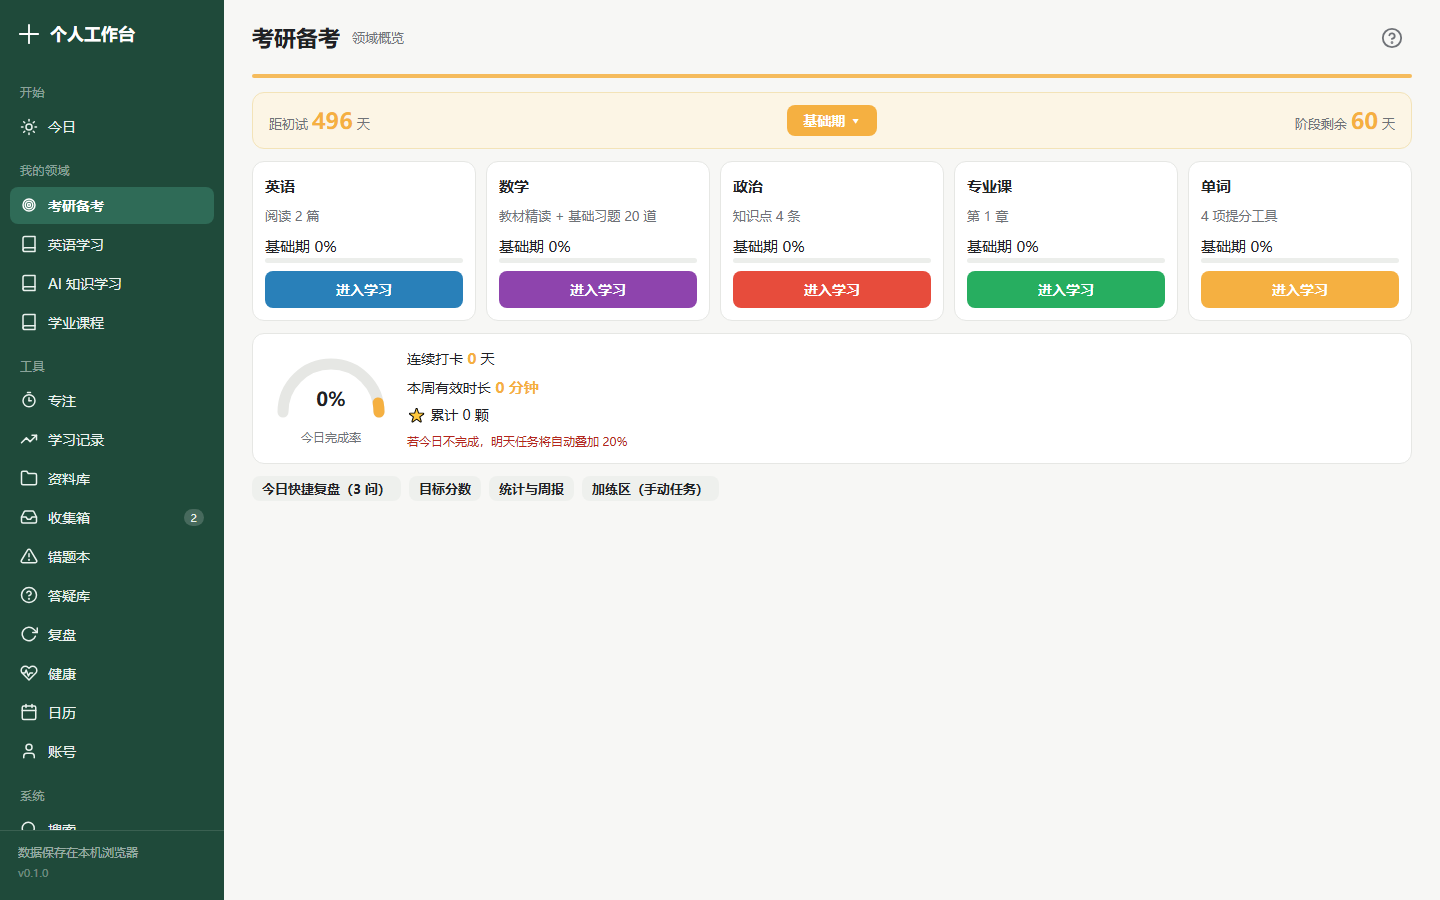
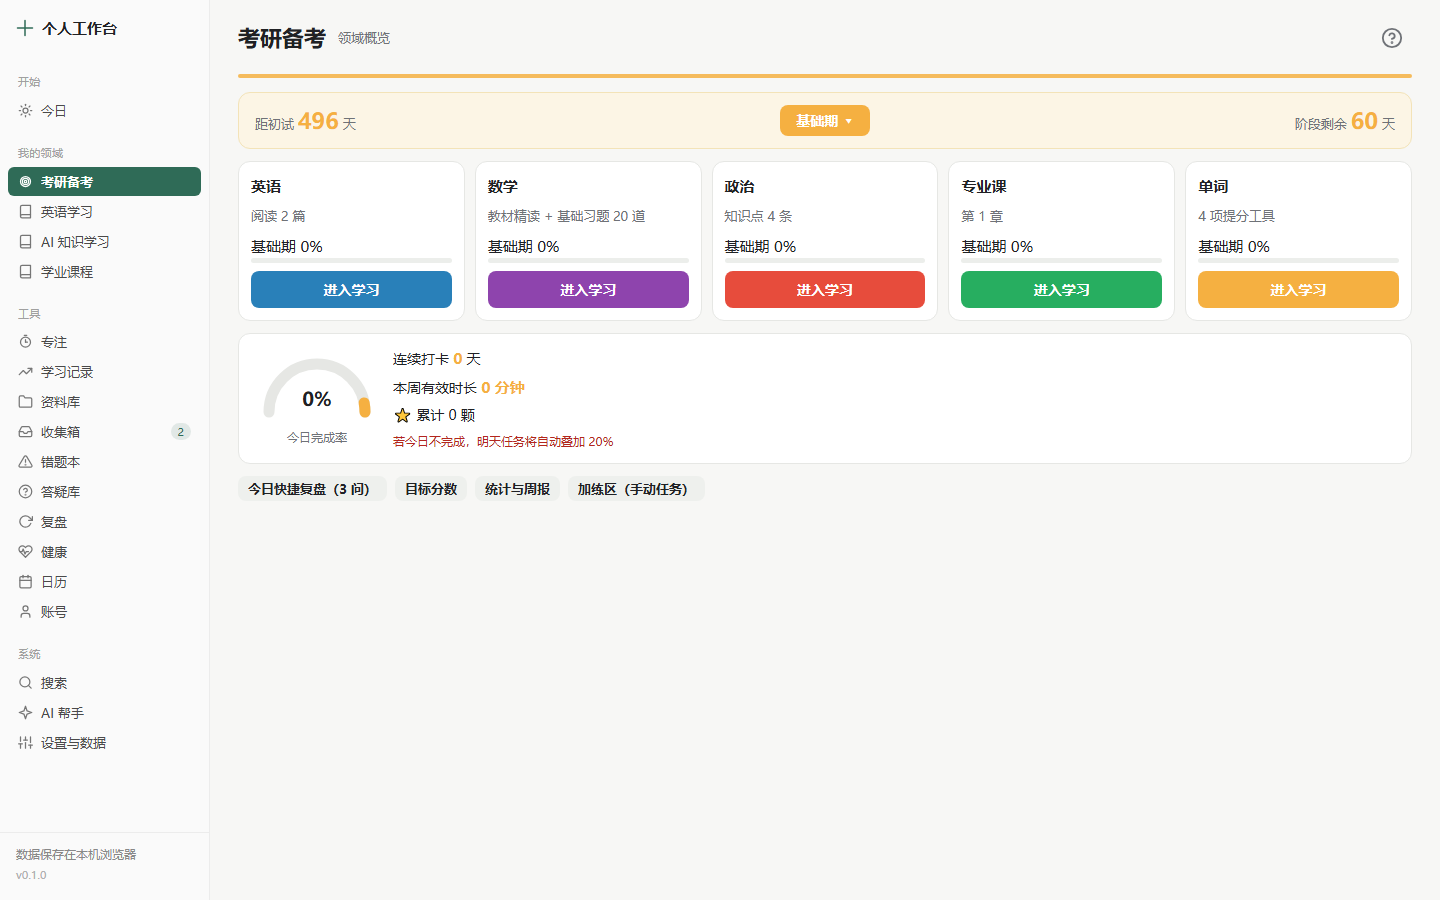
侧边栏变体C（紧凑浅色）+健康页删专注引导卡+学习记录本周打卡概览+复盘连续天数

diff --git a/views.js b/views.js
@@ -1614,11 +1614,6 @@
       "</div>" +
       '<div class="li-sub" style="margin-top:10px;">记录睡眠和状态后，每周复盘会自动统计健康情况。</div>');
 
-    /* 番茄钟入口（已独立为"专注"页面） */
-    html += card(cardHead("专注计时", "已独立为单独页面", "timer"),
-      '<p style="font-size:14px;color:var(--sub);margin-bottom:12px;">番茄钟已搬到独立的「专注」页面，那里有更大的计时器和专注统计。</p>' +
-      '<button class="btn block" data-action="open-focus">' + ic("timer") + "打开专注页</button>");
-
     html += "</div>";
 
     /* 本周统计 */
@@ -1743,6 +1738,28 @@
       '<div class="card tint-pink"><div class="stat-num">' + addCount + '</div><div class="stat-label">新增记录</div></div>' +
       "</div>";
 
+    /* 本周打卡概览（7 天点条） */
+    (function () {
+      var days = [];
+      for (var i = 6; i >= 0; i--) {
+        var dt = new Date(); dt.setDate(dt.getDate() - i);
+        var ds = dt.getFullYear() + "-" + String(dt.getMonth() + 1).padStart(2, "0") + "-" + String(dt.getDate()).padStart(2, "0");
+        var m = (d.studyLog || []).filter(function (x) { return x.date === ds; }).reduce(function (s, x) { return s + (x.minutes || 0); }, 0);
+        days.push({ ds: ds, m: m, label: "周" + "日一二三四五六"[dt.getDay()] });
+      }
+      var maxM = Math.max.apply(null, days.map(function (x) { return x.m; }).concat([1]));
+      html += card(cardHead("本周打卡", "近 7 天每天学习时长", "activity-week"),
+        '<div style="display:flex;gap:8px;align-items:flex-end;height:64px;padding:0 4px;">' +
+        days.map(function (x) {
+          var h = Math.round(x.m / maxM * 52);
+          return '<div style="flex:1;display:flex;flex-direction:column;align-items:center;gap:4px;">' +
+            '<div style="width:100%;max-width:26px;height:' + (h > 0 ? h : 3) + 'px;background:' + (x.m > 0 ? "var(--accent)" : "#EDEFEC") + ';border-radius:3px;"></div>' +
+            '<div class="li-sub" style="font-size:11px;">' + x.label + "</div></div>";
+        }).join("") +
+        "</div>" +
+        '<div class="li-sub" style="margin-top:8px;">' + days.filter(function (x) { return x.m > 0; }).length + " 天有学习记录" + (calcStreak() >= 2 ? " · 连续打卡 " + calcStreak() + " 天" : "") + "</div>");
+    })();
+
     /* 鼓励语 */
     var streak = calcStreak();
     var praise = "";
@@ -1820,6 +1837,26 @@
       '<button class="btn ghost small" data-action="edit-weekly-review">查看本周复盘</button>'
       : '<button class="btn block" data-action="ai-draft-week">' + ic("spark") + "用本周数据生成复盘草稿</button>" +
       '<div class="li-sub" style="margin-top:10px;">草稿会汇总：本周各领域学习时长、任务完成情况、打卡天数、健康情况。生成后你可以修改，确认才保存。</div>');
+
+    /* 连续复盘天数 */
+    (function () {
+      var daily = (d.reviews || []).filter(function (r) { return r.type === "daily"; }).map(function (r) { return r.date; });
+      var streak = 0;
+      var dt = new Date();
+      for (;;) {
+        var ds = dt.getFullYear() + "-" + String(dt.getMonth() + 1).padStart(2, "0") + "-" + String(dt.getDate()).padStart(2, "0");
+        if (daily.indexOf(ds) >= 0) { streak++; dt.setDate(dt.getDate() - 1); }
+        else break;
+      }
+      var weekCount = (d.reviews || []).filter(function (r) { return r.date >= weekStart && r.type === "daily"; }).length;
+      if (streak >= 1 || weekCount >= 1) {
+        html += '<div class="grid grid-3" style="margin-bottom:14px;">' +
+          '<div class="card tint-yellow" style="margin-bottom:0;"><div class="stat-num">' + streak + '</div><div class="stat-label">连续复盘（天）</div></div>' +
+          '<div class="card tint-green" style="margin-bottom:0;"><div class="stat-num">' + weekCount + '</div><div class="stat-label">本周复盘次数</div></div>' +
+          '<div class="card tint-blue" style="margin-bottom:0;"><div class="stat-num">' + (d.reviews || []).length + '</div><div class="stat-label">复盘总次数</div></div>' +
+          "</div>";
+      }
+    })();
 
     var list = (d.reviews || []).slice().sort(function (a, b) { return b.date > a.date ? 1 : -1; });
     html += card(cardHead("复盘历史", list.length + " 次记录", "review-history"),

diff --git a/styles.css b/styles.css
@@ -18,7 +18,7 @@
   --green: #B8CB9A;
   --radius: 12px;
   --shadow: 0 1px 3px rgba(32,33,36,0.08);
-  --sidebar-w: 224px;
+  --sidebar-w: 210px;
   --danger: #B3261E;
 }
 
@@ -67,7 +67,7 @@ body.theme-courses { --theme: #8E44AD; }
 .btn.plain { background: none; color: var(--theme); }
 .btn.plain:hover { background: color-mix(in srgb, var(--theme) 8%, #fff); }
 .nav-item.active { background: color-mix(in srgb, var(--theme) 14%, #fff); color: var(--theme); }
-.sidebar .nav-item.active::before { background: var(--theme); }
+.sidebar .nav-item.active::before { display: none; }
 .drawer-item.active { color: var(--theme); }
 
 /* ===== 字体大小（设置里可调；手机端默认偏小） ===== */
@@ -253,44 +253,48 @@ input, select, textarea { font-family: inherit; font-size: var(--fs-base); color
 a { color: var(--accent); text-decoration: none; }
 h1, h2, h3, h4 { font-weight: 700; }
 
-/* ===== 桌面侧边栏 ===== */
+/* ===== 桌面侧边栏（变体C 紧凑浅色） ===== */
 .sidebar {
   position: fixed; top: 0; left: 0; bottom: 0;
   width: var(--sidebar-w);
-  background: var(--accent-dark);
-  color: #EAF2EE;
+  background: #FAFAFA;
+  color: #4A4A4A;
+  border-right: 1px solid #ECECEC;
   display: flex; flex-direction: column;
   z-index: 50;
 }
 .brand {
-  display: flex; align-items: center; gap: 10px;
-  padding: 20px 18px 14px;
-  font-size: 17px; font-weight: 700; color: #fff;
+  display: flex; align-items: center; gap: 8px;
+  padding: 16px 16px 10px;
+  font-size: 15px; font-weight: 800; color: #202124;
 }
-.brand-logo { width: 22px; height: 22px; }
-.side-nav { flex: 1; overflow-y: auto; padding: 6px 10px 16px; }
-.nav-group { margin-top: 12px; }
+.brand-logo { width: 18px; height: 18px; }
+.brand svg { stroke: #2F6B57; }
+.side-nav { flex: 1; overflow-y: auto; padding: 4px 8px 16px; }
+.nav-group { margin-top: 10px; }
 .nav-group-title {
-  font-size: 12px; color: rgba(234,242,238,0.55);
-  padding: 4px 10px; letter-spacing: 0.5px;
+  font-size: 10.5px; color: #A0A0A0;
+  padding: 10px 10px 4px; letter-spacing: 0.8px; text-transform: uppercase;
 }
 .nav-item {
-  display: flex; align-items: center; gap: 10px;
-  padding: 9px 10px; margin: 2px 0;
-  border-radius: 8px; color: #EAF2EE;
-  font-size: 14px; width: 100%; text-align: left;
+  display: flex; align-items: center; gap: 8px;
+  padding: 6px 10px; margin: 1px 0;
+  border-radius: 6px; color: #4A4A4A;
+  font-size: 13px; width: 100%; text-align: left;
   transition: background 0.15s;
 }
-.nav-item svg { width: 18px; height: 18px; flex-shrink: 0; }
-.nav-item:hover { background: rgba(255,255,255,0.08); }
-.nav-item.active { background: var(--accent); color: #fff; font-weight: 600; }
+.nav-item svg { width: 15px; height: 15px; flex-shrink: 0; opacity: .75; }
+.nav-item:hover { background: #F0F0F0; }
+.nav-item.active { background: #2F6B57; color: #fff; font-weight: 600; }
+.nav-item.active svg { opacity: 1; }
 .nav-item .nav-badge {
-  margin-left: auto; font-size: 11px; background: rgba(255,255,255,0.18);
-  border-radius: 10px; padding: 1px 7px;
+  margin-left: auto; font-size: 11px; background: rgba(47,107,87,0.12);
+  color: #2F6B57; border-radius: 10px; padding: 1px 7px;
 }
-.side-foot { padding: 12px 18px 18px; border-top: 1px solid rgba(255,255,255,0.12); }
-.side-save { font-size: 12px; color: rgba(234,242,238,0.6); }
-.side-ver { font-size: 11px; color: rgba(234,242,238,0.4); margin-top: 2px; }
+.nav-item.active .nav-badge { background: rgba(255,255,255,0.25); color: #fff; }
+.side-foot { padding: 12px 16px 16px; border-top: 1px solid #ECECEC; }
+.side-save { font-size: 12px; color: #888; }
+.side-ver { font-size: 11px; color: #B0B0B0; margin-top: 2px; }
 
 /* ===== 主区域 ===== */
 .main { margin-left: var(--sidebar-w); min-height: 100vh; display: flex; flex-direction: column; }

diff --git a/previews/05-sidebar-B-color.html b/previews/05-sidebar-B-color.html
@@ -1,0 +1,51 @@
+<!DOCTYPE html>
+<html lang="zh-CN">
+<head>
+<meta charset="UTF-8">
+<meta name="viewport" content="width=device-width, initial-scale=1.0">
+<title>侧边栏 · 变体B 彩色主题</title>
+<style>
+  * { margin: 0; padding: 0; box-sizing: border-box; }
+  body { display: flex; min-height: 100vh; font-family: "PingFang SC", "Microsoft YaHei", sans-serif; color: #202124; }
+  .side { width: 240px; background: #fff; padding: 18px 12px; display: flex; flex-direction: column; gap: 3px; border-right: 1px solid #EEEEEA; flex-shrink: 0; }
+  .brand { font-size: 16px; font-weight: 800; padding: 2px 10px 12px; display: flex; align-items: center; gap: 8px; }
+  .brand .dot { width: 10px; height: 10px; border-radius: 3px; background: #2F6B57; }
+  .g { font-size: 11px; color: #9B9B93; padding: 12px 10px 5px; font-weight: 600; }
+  .item { display: flex; align-items: center; gap: 10px; padding: 7px 10px; border-radius: 9px; font-size: 13.5px; color: #555; cursor: pointer; }
+  .item:hover { background: #F7F7F5; }
+  .item.on { background: #F0F5F2; color: #2F6B57; font-weight: 700; }
+  .item .dot { width: 8px; height: 8px; border-radius: 50%; flex-shrink: 0; }
+  .side .spacer { flex: 1; }
+  .main { flex: 1; background: #F7F7F5; padding: 30px; }
+  .ph { background: #fff; border: 1px dashed #DDD; border-radius: 12px; height: 100%; display: flex; align-items: center; justify-content: center; color: #BBB; font-size: 13px; }
+</style>
+</head>
+<body>
+  <div class="side">
+    <div class="brand"><span class="dot"></span>个人工作台</div>
+    <div class="g">开始</div>
+    <div class="item on"><span class="dot" style="background:#34495E;"></span>今日</div>
+    <div class="g">我的领域</div>
+    <div class="item"><span class="dot" style="background:#F5B041;"></span>考研备考</div>
+    <div class="item"><span class="dot" style="background:#2980B9;"></span>英语学习</div>
+    <div class="item"><span class="dot" style="background:#3498DB;"></span>AI 知识学习</div>
+    <div class="item"><span class="dot" style="background:#8E44AD;"></span>学业课程</div>
+    <div class="g">工具</div>
+    <div class="item"><span class="dot" style="background:#E74C3C;"></span>专注</div>
+    <div class="item"><span class="dot" style="background:#27AE60;"></span>学习记录</div>
+    <div class="item"><span class="dot" style="background:#2980B9;"></span>资料库</div>
+    <div class="item"><span class="dot" style="background:#9B59B6;"></span>收集箱</div>
+    <div class="item"><span class="dot" style="background:#F39C12;"></span>错题本</div>
+    <div class="item"><span class="dot" style="background:#1ABC9C;"></span>答疑库</div>
+    <div class="item"><span class="dot" style="background:#34495E;"></span>复盘</div>
+    <div class="item"><span class="dot" style="background:#2ECC71;"></span>健康</div>
+    <div class="item"><span class="dot" style="background:#8E44AD;"></span>日历</div>
+    <div class="item"><span class="dot" style="background:#3498DB;"></span>AI 帮手</div>
+    <div class="spacer"></div>
+    <div class="g">系统</div>
+    <div class="item"><span class="dot" style="background:#34495E;"></span>搜索</div>
+    <div class="item"><span class="dot" style="background:#7F8C8D;"></span>设置与数据</div>
+  </div>
+  <div class="main"><div class="ph">内容区（当前页面）</div></div>
+</body>
+</html>

diff --git a/previews/05-sidebar-A-notion.html b/previews/05-sidebar-A-notion.html
@@ -1,0 +1,52 @@
+<!DOCTYPE html>
+<html lang="zh-CN">
+<head>
+<meta charset="UTF-8">
+<meta name="viewport" content="width=device-width, initial-scale=1.0">
+<title>侧边栏 · 变体A Notion 暖极简</title>
+<style>
+  * { margin: 0; padding: 0; box-sizing: border-box; }
+  body { display: flex; min-height: 100vh; font-family: "PingFang SC", "Microsoft YaHei", sans-serif; color: #33332E; }
+  /* 侧栏 */
+  .side { width: 230px; background: #F7F6F3; padding: 18px 10px; display: flex; flex-direction: column; gap: 4px; border-right: 1px solid #EFEEE9; flex-shrink: 0; }
+  .brand { font-family: Georgia, "Songti SC", serif; font-size: 16px; font-weight: 700; padding: 4px 12px 14px; letter-spacing: .3px; }
+  .g { font-size: 11px; color: #9B9B93; letter-spacing: .6px; padding: 14px 12px 6px; }
+  .item { display: flex; align-items: center; gap: 9px; padding: 8px 12px; border-radius: 7px; font-size: 13.5px; color: #55554F; cursor: pointer; }
+  .item:hover { background: rgba(0,0,0,.04); }
+  .item.on { background: #fff; color: #202124; font-weight: 600; box-shadow: 0 1px 3px rgba(0,0,0,.05); }
+  .item .ic { width: 17px; text-align: center; font-size: 14px; }
+  .side .spacer { flex: 1; }
+  /* 内容占位 */
+  .main { flex: 1; background: #FBFBFA; padding: 30px; }
+  .ph { background: #fff; border: 1px dashed #E3E2DC; border-radius: 12px; height: 100%; display: flex; align-items: center; justify-content: center; color: #C5C4BC; font-size: 13px; }
+</style>
+</head>
+<body>
+  <div class="side">
+    <div class="brand">个人工作台</div>
+    <div class="g">开始</div>
+    <div class="item on"><span class="ic">☀</span>今日</div>
+    <div class="g">我的领域</div>
+    <div class="item"><span class="ic">🎓</span>考研备考</div>
+    <div class="item"><span class="ic">📖</span>英语学习</div>
+    <div class="item"><span class="ic">🤖</span>AI 知识学习</div>
+    <div class="item"><span class="ic">📘</span>学业课程</div>
+    <div class="g">工具</div>
+    <div class="item"><span class="ic">⏱</span>专注</div>
+    <div class="item"><span class="ic">📈</span>学习记录</div>
+    <div class="item"><span class="ic">📁</span>资料库</div>
+    <div class="item"><span class="ic">📥</span>收集箱</div>
+    <div class="item"><span class="ic">⚠</span>错题本</div>
+    <div class="item"><span class="ic">💬</span>答疑库</div>
+    <div class="item"><span class="ic">🔄</span>复盘</div>
+    <div class="item"><span class="ic">❤</span>健康</div>
+    <div class="item"><span class="ic">📅</span>日历</div>
+    <div class="item"><span class="ic">🧠</span>AI 帮手</div>
+    <div class="spacer"></div>
+    <div class="g">系统</div>
+    <div class="item"><span class="ic">🔍</span>搜索</div>
+    <div class="item"><span class="ic">⚙</span>设置与数据</div>
+  </div>
+  <div class="main"><div class="ph">内容区（当前页面）</div></div>
+</body>
+</html>

diff --git a/previews/05-sidebar-C-compact.html b/previews/05-sidebar-C-compact.html
@@ -1,0 +1,51 @@
+<!DOCTYPE html>
+<html lang="zh-CN">
+<head>
+<meta charset="UTF-8">
+<meta name="viewport" content="width=device-width, initial-scale=1.0">
+<title>侧边栏 · 变体C 紧凑工具栏</title>
+<style>
+  * { margin: 0; padding: 0; box-sizing: border-box; }
+  body { display: flex; min-height: 100vh; font-family: "PingFang SC", "Microsoft YaHei", sans-serif; color: #202124; background: #FAFAFA; }
+  .side { width: 210px; background: #FAFAFA; padding: 16px 8px; display: flex; flex-direction: column; gap: 1px; border-right: 1px solid #ECECEC; flex-shrink: 0; }
+  .brand { font-size: 14px; font-weight: 800; padding: 2px 10px 12px; letter-spacing: .2px; }
+  .g { font-size: 10.5px; color: #A0A0A0; padding: 10px 10px 4px; text-transform: uppercase; letter-spacing: .8px; }
+  .item { display: flex; align-items: center; gap: 8px; padding: 6px 10px; border-radius: 6px; font-size: 13px; color: #4A4A4A; cursor: pointer; }
+  .item:hover { background: #F0F0F0; }
+  .item.on { background: #2F6B57; color: #fff; font-weight: 600; }
+  .item .ic { width: 15px; text-align: center; font-size: 13px; opacity: .8; }
+  .item.on .ic { opacity: 1; }
+  .side .spacer { flex: 1; }
+  .main { flex: 1; padding: 30px; }
+  .ph { background: #fff; border: 1px solid #ECECEC; border-radius: 10px; height: 100%; display: flex; align-items: center; justify-content: center; color: #BBB; font-size: 13px; }
+</style>
+</head>
+<body>
+  <div class="side">
+    <div class="brand">个人工作台</div>
+    <div class="g">开始</div>
+    <div class="item on"><span class="ic">☀</span>今日</div>
+    <div class="g">领域</div>
+    <div class="item"><span class="ic">🎓</span>考研备考</div>
+    <div class="item"><span class="ic">📖</span>英语学习</div>
+    <div class="item"><span class="ic">🤖</span>AI 学习</div>
+    <div class="item"><span class="ic">📘</span>课程</div>
+    <div class="g">工具</div>
+    <div class="item"><span class="ic">⏱</span>专注</div>
+    <div class="item"><span class="ic">📈</span>记录</div>
+    <div class="item"><span class="ic">📁</span>资料库</div>
+    <div class="item"><span class="ic">📥</span>收集箱</div>
+    <div class="item"><span class="ic">⚠</span>错题本</div>
+    <div class="item"><span class="ic">💬</span>答疑库</div>
+    <div class="item"><span class="ic">🔄</span>复盘</div>
+    <div class="item"><span class="ic">❤</span>健康</div>
+    <div class="item"><span class="ic">📅</span>日历</div>
+    <div class="item"><span class="ic">🧠</span>AI 帮手</div>
+    <div class="spacer"></div>
+    <div class="g">系统</div>
+    <div class="item"><span class="ic">🔍</span>搜索</div>
+    <div class="item"><span class="ic">⚙</span>设置</div>
+  </div>
+  <div class="main"><div class="ph">内容区（当前页面）</div></div>
+</body>
+</html>

diff --git a/service-worker.js b/service-worker.js
@@ -3,7 +3,7 @@
    - HTML 页面：优先网络（每次打开都是最新版），网络失败时用缓存（离线可用）
    - 静态资源（css/js）：先读缓存（秒开），后台拉取更新缓存
    - 发布新版本时更新 CACHE 版本号，旧缓存自动清理，一次刷新即生效 */
-var CACHE = "wb-cache-v025";
+var CACHE = "wb-cache-v026";
 var ASSETS = [
   "./",
   "./index.html",
